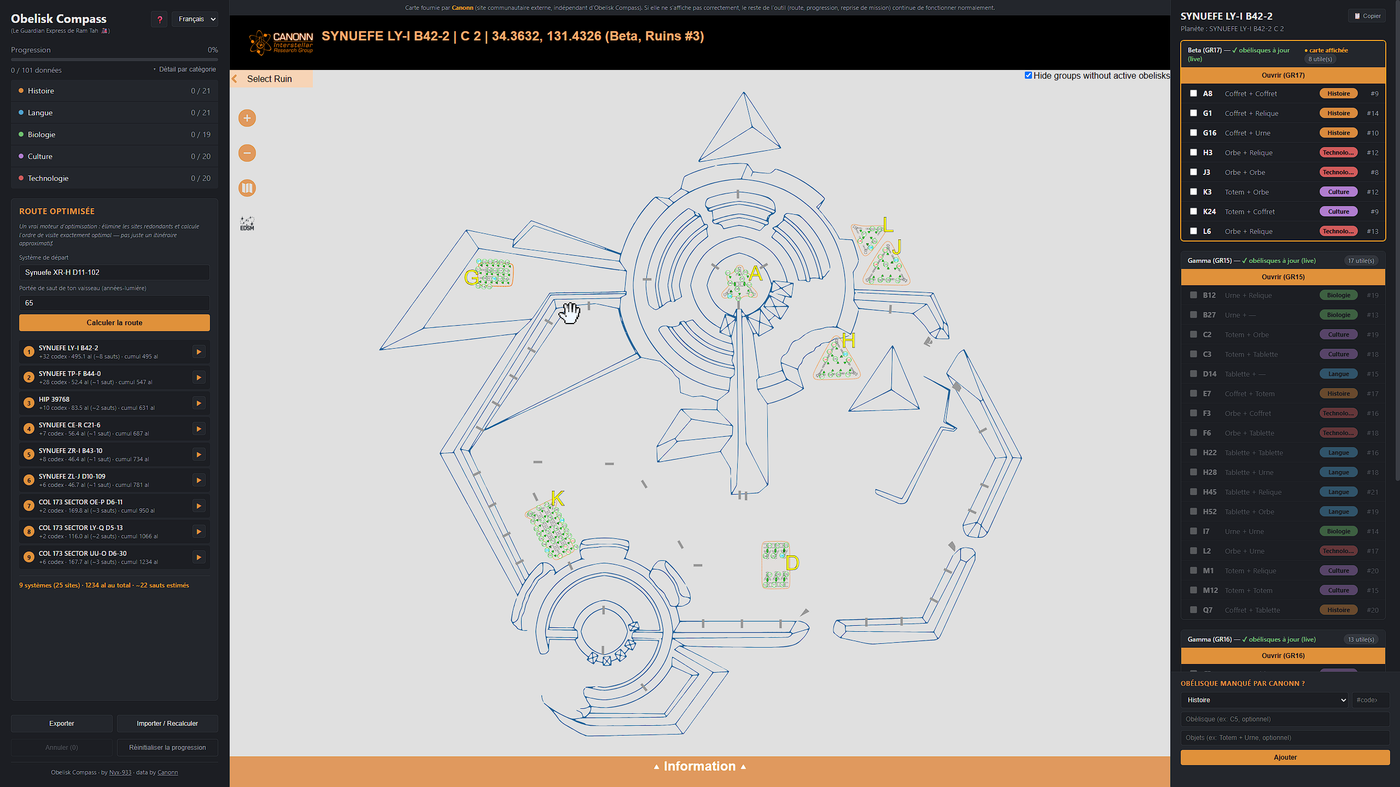
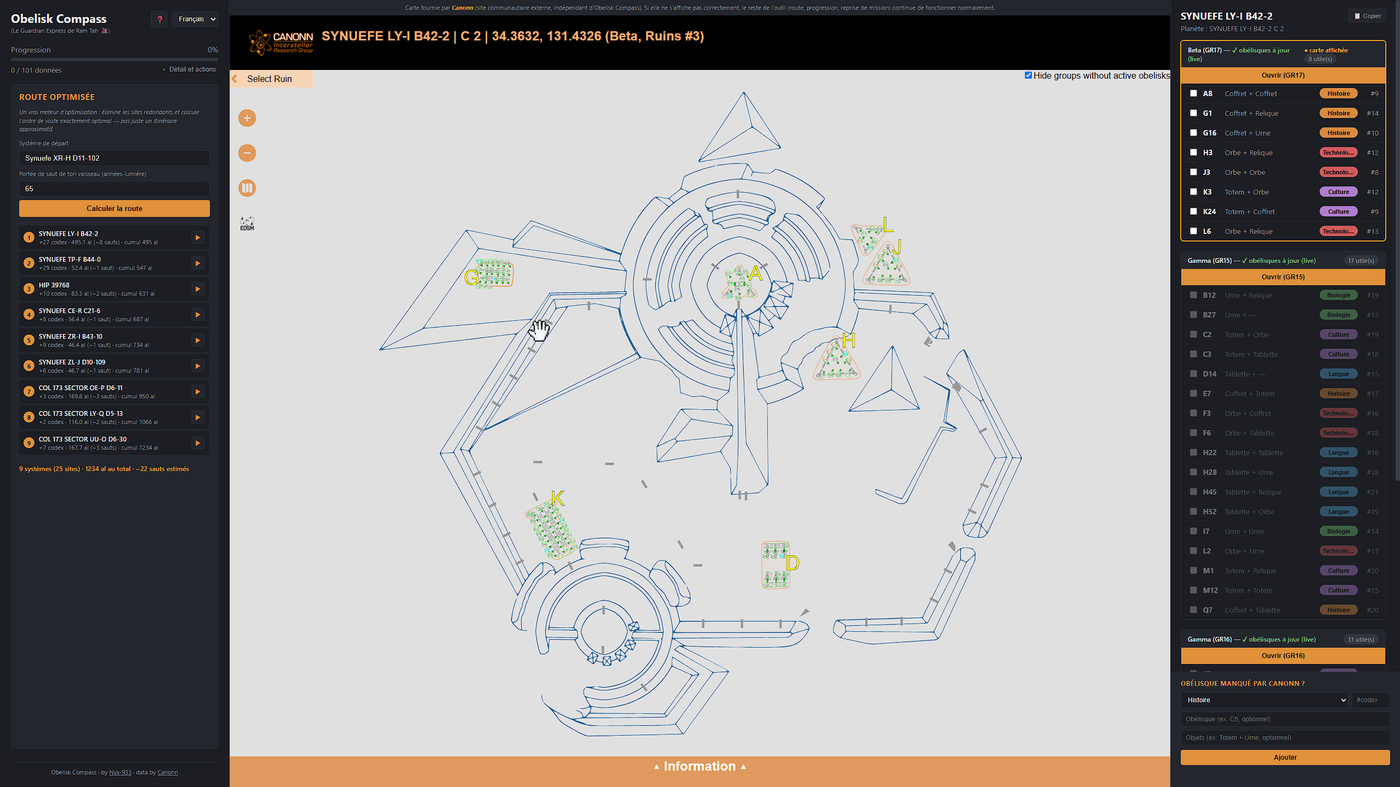
Tutorial update

diff --git a/i18n.js b/i18n.js
@@ -56,13 +56,13 @@ const STRINGS = {
 <p>At the bottom of the right column, a small form lets you manually add a data entry obtained in-game that the app didn't show as available (category + codex number required, obelisk and items optional, just for your own reference).</p>
 
 <h3>💾 Save or resume your progress</h3>
-<p><strong>Export</strong> shows your progress as a compact list (e.g. <code>H01 L12 T09...</code>) to copy and keep somewhere safe. <strong>Import / Recalculate</strong> lets you paste a trusted list (rebuilt from your mission mails, for instance) to fully replace your progress — useful if you start using the app after already being well into the mission.</p>
+<p>Expand <strong>Details and actions</strong> (small arrow next to the progress counter) to reach <strong>Export</strong>, which shows your progress as a compact list (e.g. <code>H01 L12 T09...</code>) to copy and keep somewhere safe, and <strong>Import / Recalculate</strong>, which lets you paste a trusted list (rebuilt from your mission mails, for instance) to fully replace your progress — useful if you start using the app after already being well into the mission.</p>
 
 <h3>↩ Undo and reset</h3>
-<p><strong>Undo</strong> only removes the very last checked item. In the right column, a <strong>Reset this system</strong> button appears when needed to only uncheck data obtained on the displayed planet, without touching anything else. <strong>Reset progress</strong> resets everything (with confirmation).</p>
+<p>Also under <strong>Details and actions</strong>: <strong>Undo</strong> only removes the very last checked item. In the right column, a <strong>Reset this system</strong> button appears when needed to only uncheck data obtained on the displayed planet, without touching anything else. <strong>Reset progress</strong> resets everything (with confirmation).</p>
 
-<h3>🌐 Language and categories</h3>
-<p>The selector at the top right changes the interface language at any time (auto-detected on first load). The small arrow next to the progress counter collapses or expands the category breakdown (History, Language, Biology, Culture, Technology).</p>
+<h3>🌐 Language and category detail</h3>
+<p>The selector at the top right changes the interface language at any time (auto-detected on first load). The <strong>Details and actions</strong> button collapses or expands both the category breakdown (History, Language, Biology, Culture, Technology) and the buttons above — hidden by default to leave room for the computed route.</p>
 
 `,
     tutorialTitle: "How to use Obelisk Compass",
@@ -187,13 +187,13 @@ const STRINGS = {
 <p>En bas de la colonne de droite, un petit formulaire permet d'ajouter à la main une donnée obtenue en jeu mais que l'appli n'affichait pas comme disponible (catégorie + numéro de codex obligatoires, obélisque et objets facultatifs, juste pour ta mémoire).</p>
 
 <h3>💾 Sauvegarder ou reprendre ta progression</h3>
-<p><strong>Exporter</strong> affiche ta progression sous forme de liste compacte (ex: <code>H01 L12 T09...</code>) à copier et garder de côté. <strong>Importer / Recalculer</strong> permet de coller une liste sûre (reconstituée depuis tes mails de mission par exemple) pour remplacer entièrement ta progression — utile si tu commences à utiliser l'appli après avoir déjà bien avancé dans la mission.</p>
+<p>Déplie <strong>Détail et actions</strong> (petite flèche à côté du compteur de progression) pour accéder à <strong>Exporter</strong>, qui affiche ta progression sous forme de liste compacte (ex: <code>H01 L12 T09...</code>) à copier et garder de côté, et <strong>Importer / Recalculer</strong>, qui permet de coller une liste sûre (reconstituée depuis tes mails de mission par exemple) pour remplacer entièrement ta progression — utile si tu commences à utiliser l'appli après avoir déjà bien avancé dans la mission.</p>
 
 <h3>↩ Annuler et réinitialiser</h3>
-<p><strong>Annuler</strong> retire uniquement la toute dernière case cochée. Dans la colonne de droite, un bouton <strong>Réinitialiser ce système</strong> apparaît si besoin pour ne décocher que les données obtenues sur la planète affichée, sans toucher au reste. <strong>Réinitialiser la progression</strong> remet tout à zéro (avec confirmation).</p>
+<p>Toujours sous <strong>Détail et actions</strong> : <strong>Annuler</strong> retire uniquement la toute dernière case cochée. Dans la colonne de droite, un bouton <strong>Réinitialiser ce système</strong> apparaît si besoin pour ne décocher que les données obtenues sur la planète affichée, sans toucher au reste. <strong>Réinitialiser la progression</strong> remet tout à zéro (avec confirmation).</p>
 
-<h3>🌐 Langue et catégories</h3>
-<p>Le sélecteur en haut à droite change la langue de l'interface à tout moment (détectée automatiquement au premier chargement). La petite flèche à côté du compteur de progression replie ou déplie le détail par catégorie (Histoire, Langue, Biologie, Culture, Technologie).</p>
+<h3>🌐 Langue et détail par catégorie</h3>
+<p>Le sélecteur en haut à droite change la langue de l'interface à tout moment (détectée automatiquement au premier chargement). Le bouton <strong>Détail et actions</strong> replie ou déplie à la fois le détail par catégorie (Histoire, Langue, Biologie, Culture, Technologie) et les boutons ci-dessus — masqués par défaut pour laisser toute la place à la route calculée.</p>
 
 `,
     tutorialTitle: "Comment utiliser Obelisk Compass",
@@ -318,13 +318,13 @@ const STRINGS = {
 <p>Unten in der rechten Spalte kannst du über ein kleines Formular manuell einen im Spiel erhaltenen Dateneintrag hinzufügen, den die App nicht als verfügbar anzeigte (Kategorie + Codex-Nummer erforderlich, Obelisk und Gegenstände optional, nur zur eigenen Erinnerung).</p>
 
 <h3>💾 Fortschritt sichern oder fortsetzen</h3>
-<p><strong>Exportieren</strong> zeigt deinen Fortschritt als kompakte Liste (z. B. <code>H01 L12 T09...</code>) zum Kopieren und sicheren Aufbewahren. <strong>Importieren / Neu berechnen</strong> lässt dich eine vertrauenswürdige Liste einfügen (z. B. aus deinen Missions-Mails rekonstruiert), um deinen Fortschritt komplett zu ersetzen — nützlich, wenn du die App erst benutzt, nachdem du bei der Mission schon weit warst.</p>
+<p>Klappe <strong>Details und Aktionen</strong> auf (kleiner Pfeil neben dem Fortschrittszähler), um zu <strong>Exportieren</strong> zu gelangen, das deinen Fortschritt als kompakte Liste (z. B. <code>H01 L12 T09...</code>) zum Kopieren und sicheren Aufbewahren zeigt, und <strong>Importieren / Neu berechnen</strong>, das dich eine vertrauenswürdige Liste einfügen lässt (z. B. aus deinen Missions-Mails rekonstruiert), um deinen Fortschritt komplett zu ersetzen — nützlich, wenn du die App erst benutzt, nachdem du bei der Mission schon weit warst.</p>
 
 <h3>↩ Rückgängig machen und zurücksetzen</h3>
-<p><strong>Rückgängig</strong> entfernt nur den allerletzten abgehakten Eintrag. In der rechten Spalte erscheint bei Bedarf ein Button <strong>Dieses System zurücksetzen</strong>, um nur die auf dem angezeigten Planeten erhaltenen Daten zu entfernen, ohne den Rest zu berühren. <strong>Fortschritt zurücksetzen</strong> setzt alles zurück (mit Bestätigung).</p>
+<p>Ebenfalls unter <strong>Details und Aktionen</strong>: <strong>Rückgängig</strong> entfernt nur den allerletzten abgehakten Eintrag. In der rechten Spalte erscheint bei Bedarf ein Button <strong>Dieses System zurücksetzen</strong>, um nur die auf dem angezeigten Planeten erhaltenen Daten zu entfernen, ohne den Rest zu berühren. <strong>Fortschritt zurücksetzen</strong> setzt alles zurück (mit Bestätigung).</p>
 
-<h3>🌐 Sprache und Kategorien</h3>
-<p>Die Auswahl oben rechts ändert die Interface-Sprache jederzeit (beim ersten Laden automatisch erkannt). Der kleine Pfeil neben dem Fortschrittszähler klappt die Aufschlüsselung nach Kategorie ein oder aus (Geschichte, Sprache, Biologie, Kultur, Technologie).</p>
+<h3>🌐 Sprache und Kategoriedetail</h3>
+<p>Die Auswahl oben rechts ändert die Interface-Sprache jederzeit (beim ersten Laden automatisch erkannt). Der Button <strong>Details und Aktionen</strong> klappt sowohl die Aufschlüsselung nach Kategorie (Geschichte, Sprache, Biologie, Kultur, Technologie) als auch die obigen Buttons ein oder aus — standardmäßig ausgeblendet, um Platz für die berechnete Route zu lassen.</p>
 
 `,
     tutorialTitle: "So funktioniert Obelisk Compass",
@@ -449,13 +449,13 @@ const STRINGS = {
 <p>Al final de la columna derecha, un pequeño formulario permite añadir manualmente un dato obtenido en el juego que la app no mostraba como disponible (categoría + número de códex obligatorios, obelisco y objetos opcionales, solo para tu propia referencia).</p>
 
 <h3>💾 Guardar o retomar tu progreso</h3>
-<p><strong>Exportar</strong> muestra tu progreso como una lista compacta (ej: <code>H01 L12 T09...</code>) para copiar y guardar en un lugar seguro. <strong>Importar / Recalcular</strong> te permite pegar una lista fiable (reconstruida a partir de tus correos de misión, por ejemplo) para reemplazar por completo tu progreso — útil si empiezas a usar la app cuando ya llevas mucho avanzado en la misión.</p>
+<p>Despliega <strong>Detalle y acciones</strong> (pequeña flecha junto al contador de progreso) para acceder a <strong>Exportar</strong>, que muestra tu progreso como una lista compacta (ej: <code>H01 L12 T09...</code>) para copiar y guardar en un lugar seguro, e <strong>Importar / Recalcular</strong>, que te permite pegar una lista fiable (reconstruida a partir de tus correos de misión, por ejemplo) para reemplazar por completo tu progreso — útil si empiezas a usar la app cuando ya llevas mucho avanzado en la misión.</p>
 
 <h3>↩ Deshacer y reiniciar</h3>
-<p><strong>Deshacer</strong> solo elimina la última casilla marcada. En la columna derecha aparece, cuando hace falta, un botón <strong>Reiniciar este sistema</strong> para desmarcar solo los datos obtenidos en el planeta mostrado, sin tocar el resto. <strong>Reiniciar progreso</strong> lo reinicia todo (con confirmación).</p>
+<p>También bajo <strong>Detalle y acciones</strong>: <strong>Deshacer</strong> solo elimina la última casilla marcada. En la columna derecha aparece, cuando hace falta, un botón <strong>Reiniciar este sistema</strong> para desmarcar solo los datos obtenidos en el planeta mostrado, sin tocar el resto. <strong>Reiniciar progreso</strong> lo reinicia todo (con confirmación).</p>
 
-<h3>🌐 Idioma y categorías</h3>
-<p>El selector arriba a la derecha cambia el idioma de la interfaz en cualquier momento (detectado automáticamente en la primera carga). La pequeña flecha junto al contador de progreso pliega o despliega el detalle por categoría (Historia, Idioma, Biología, Cultura, Tecnología).</p>
+<h3>🌐 Idioma y detalle por categoría</h3>
+<p>El selector arriba a la derecha cambia el idioma de la interfaz en cualquier momento (detectado automáticamente en la primera carga). El botón <strong>Detalle y acciones</strong> pliega o despliega tanto el detalle por categoría (Historia, Idioma, Biología, Cultura, Tecnología) como los botones anteriores — ocultos por defecto para dejar sitio a la ruta calculada.</p>
 
 `,
     tutorialTitle: "C\u00f3mo usar Obelisk Compass",
@@ -580,13 +580,13 @@ const STRINGS = {
 <p>Внизу правой колонки небольшая форма позволяет вручную добавить запись, полученную в игре, но не показанную приложением как доступную (категория и номер кодекса обязательны, обелиск и предметы — по желанию, просто для памяти).</p>
 
 <h3>💾 Сохранить или продолжить прогресс</h3>
-<p><strong>Экспорт</strong> показывает ваш прогресс в виде компактного списка (напр. <code>H01 L12 T09...</code>) для копирования и надёжного хранения. <strong>Импорт / Пересчёт</strong> позволяет вставить надёжный список (например, восстановленный из писем миссии), чтобы полностью заменить ваш прогресс — полезно, если вы начинаете пользоваться приложением, уже далеко продвинувшись в миссии.</p>
+<p>Разверните <strong>Детали и действия</strong> (маленькая стрелка рядом со счётчиком прогресса), чтобы попасть в <strong>Экспорт</strong>, который показывает ваш прогресс в виде компактного списка (напр. <code>H01 L12 T09...</code>) для копирования и надёжного хранения, и <strong>Импорт / Пересчёт</strong>, который позволяет вставить надёжный список (например, восстановленный из писем миссии), чтобы полностью заменить ваш прогресс — полезно, если вы начинаете пользоваться приложением, уже далеко продвинувшись в миссии.</p>
 
 <h3>↩ Отмена и сброс</h3>
-<p><strong>Отменить</strong> убирает только самую последнюю отмеченную запись. В правой колонке при необходимости появляется кнопка <strong>Сбросить эту систему</strong>, снимающая отметки только с данных, полученных на отображаемой планете, не затрагивая остальное. <strong>Сбросить прогресс</strong> сбрасывает всё (с подтверждением).</p>
+<p>Также под <strong>Детали и действия</strong>: <strong>Отменить</strong> убирает только самую последнюю отмеченную запись. В правой колонке при необходимости появляется кнопка <strong>Сбросить эту систему</strong>, снимающая отметки только с данных, полученных на отображаемой планете, не затрагивая остальное. <strong>Сбросить прогресс</strong> сбрасывает всё (с подтверждением).</p>
 
-<h3>🌐 Язык и категории</h3>
-<p>Переключатель вверху справа меняет язык интерфейса в любой момент (определяется автоматически при первой загрузке). Маленькая стрелка рядом со счётчиком прогресса сворачивает или разворачивает разбивку по категориям (История, Язык, Биология, Культура, Технология).</p>
+<h3>🌐 Язык и разбивка по категориям</h3>
+<p>Переключатель вверху справа меняет язык интерфейса в любой момент (определяется автоматически при первой загрузке). Кнопка <strong>Детали и действия</strong> сворачивает или разворачивает как разбивку по категориям (История, Язык, Биология, Культура, Технология), так и кнопки выше — скрытые по умолчанию, чтобы оставить место для рассчитанного маршрута.</p>
 
 `,
     tutorialTitle: "\u041a\u0430\u043a \u043f\u043e\u043b\u044c\u0437\u043e\u0432\u0430\u0442\u044c\u0441\u044f Obelisk Compass",
